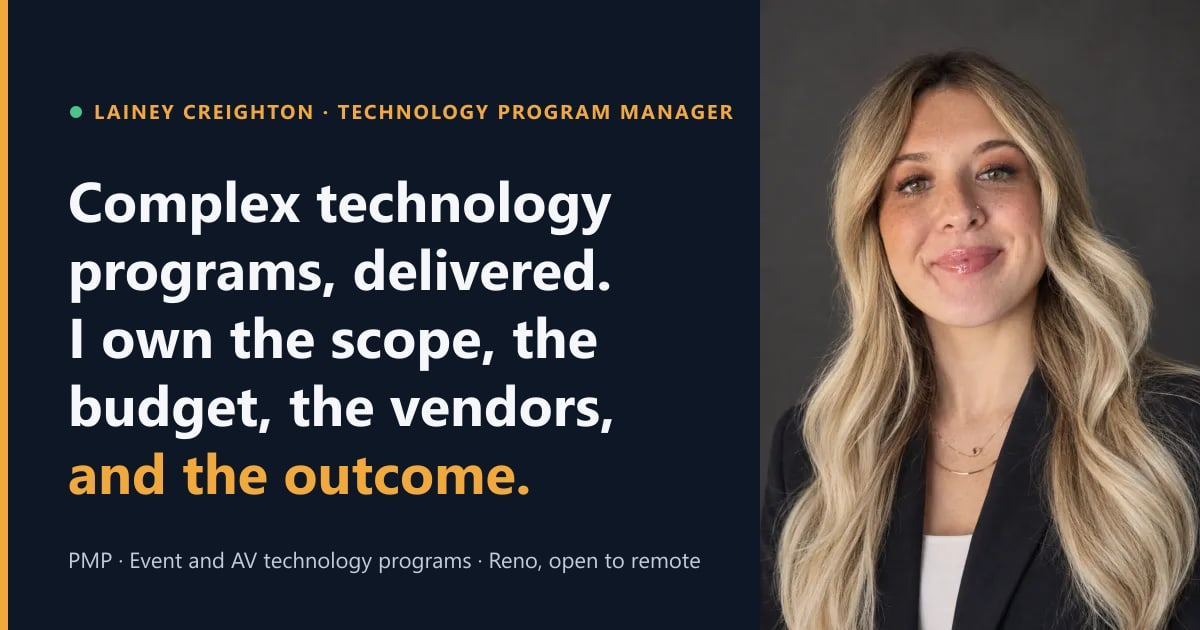
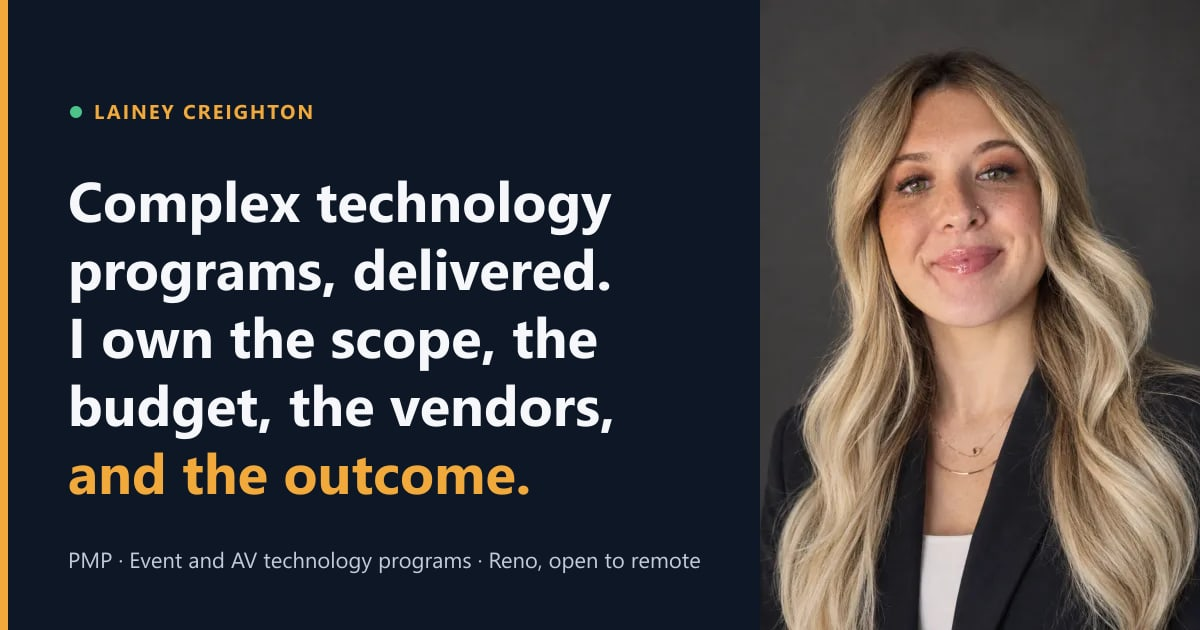
Remove job title from hero, page titles, and preview image

Changed region(s): [[0.2775, 0.1508, 0.6167, 0.2111]]

diff --git a/index.html b/index.html
@@ -3,17 +3,17 @@
   <head>
     <meta charset="UTF-8" />
     <meta name="viewport" content="width=device-width, initial-scale=1.0" />
-    <title>Lainey Creighton | Technology Program Manager</title>
+    <title>Lainey Creighton | Portfolio</title>
     <meta
       name="description"
-      content="Technology program manager. I run event and AV technology programs end to end: scope, budget, vendors, stakeholders, and delivery."
+      content="Complex technology programs, delivered. I own the scope, the budget, the vendors, and the outcome."
     />
     <meta name="theme-color" content="#0e1726" />
     <link rel="icon" href="/favicon.svg" type="image/svg+xml" />
 
     <!-- Link previews (LinkedIn, Slack, iMessage). Image: 1200 x 630 px -->
     <meta property="og:type" content="website" />
-    <meta property="og:title" content="Lainey Creighton | Technology Program Manager" />
+    <meta property="og:title" content="Lainey Creighton | Portfolio" />
     <meta
       property="og:description"
       content="Complex technology programs, delivered. I own the scope, the budget, the vendors, and the outcome."

diff --git a/src/pages/Home.jsx b/src/pages/Home.jsx
@@ -20,7 +20,7 @@ export default function Home() {
     <>
       <section className="hero container" aria-labelledby="hero-title">
         <div className="hero-text">
-          <Reveal as="p" className="eyebrow">{site.name} · {site.role}</Reveal>
+          <Reveal as="p" className="eyebrow">{site.name}</Reveal>
           <Reveal delay={80}><Headline /></Reveal>
           <Reveal as="ul" className="subline" delay={160} aria-label="Highlights">
             {site.subline.map((s) => <li key={s}>{s}</li>)}

diff --git a/src/data/site.js b/src/data/site.js
@@ -2,7 +2,8 @@
 
 export const site = {
   name: 'Lainey Creighton',
-  role: 'Technology Program Manager',
+  // Shown after your name in browser tabs and link previews.
+  role: 'Portfolio',
   url: 'https://laineyportfolio.com',
 
   headline:
